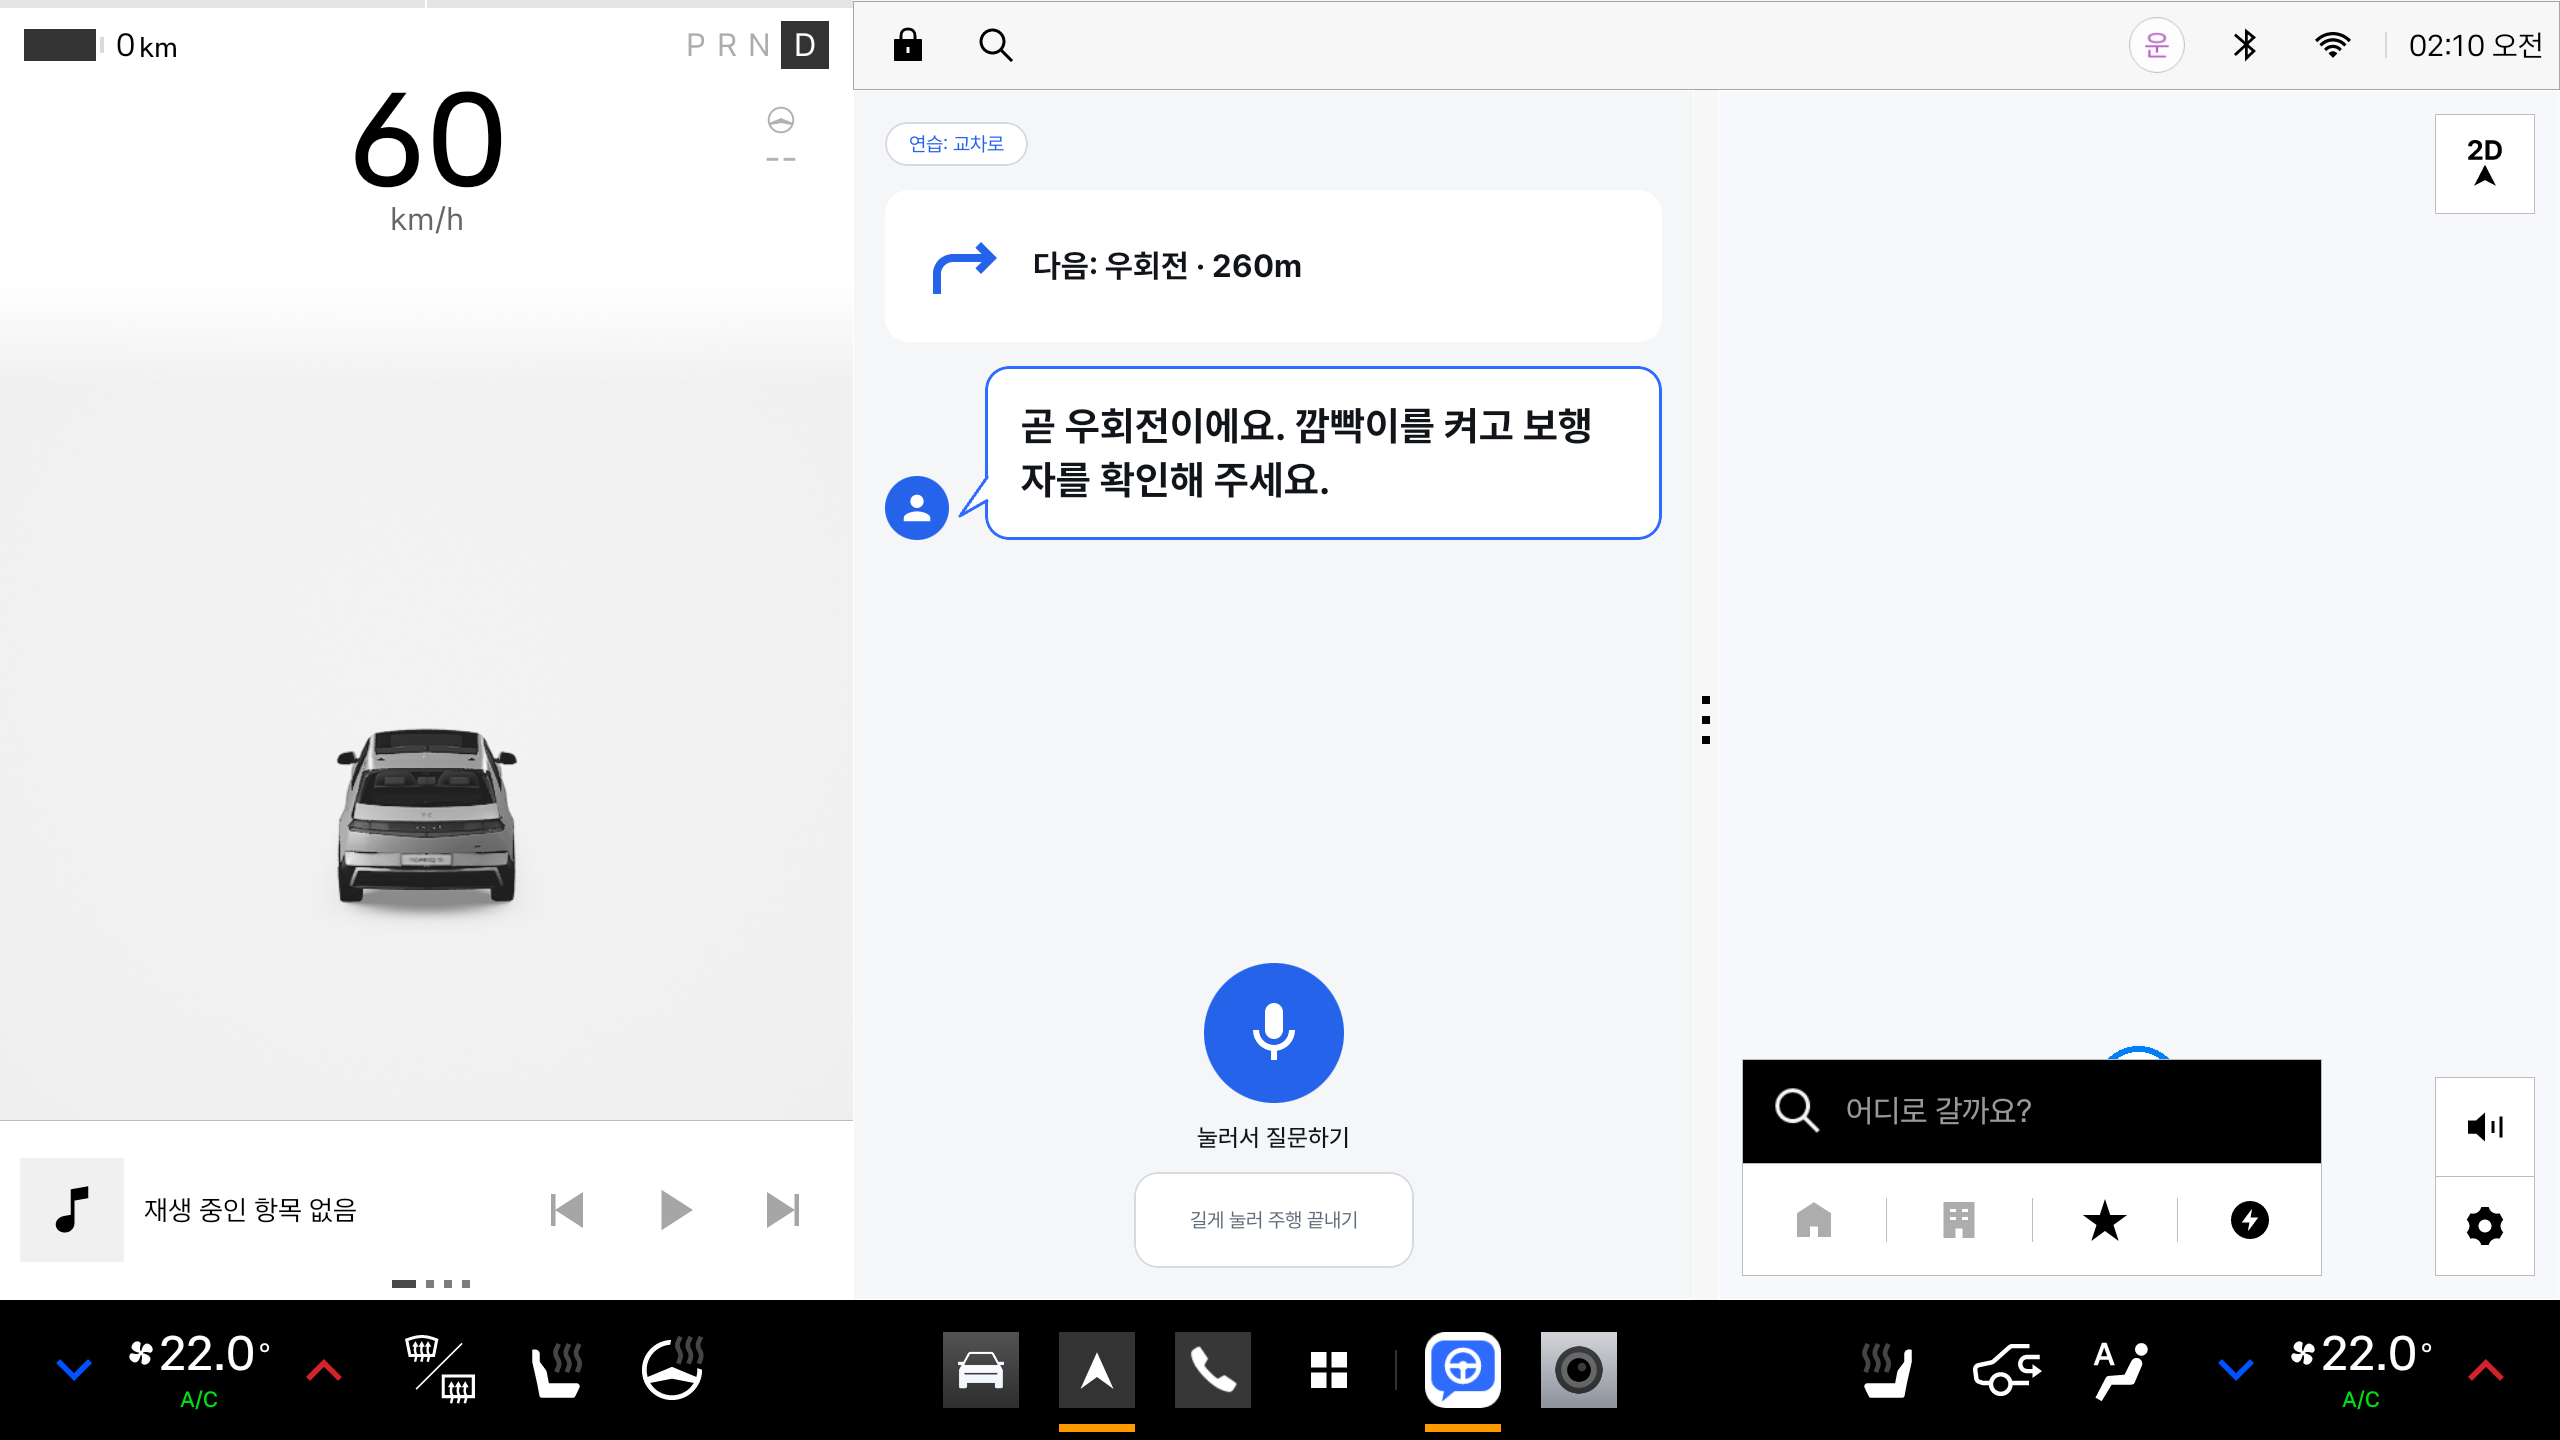
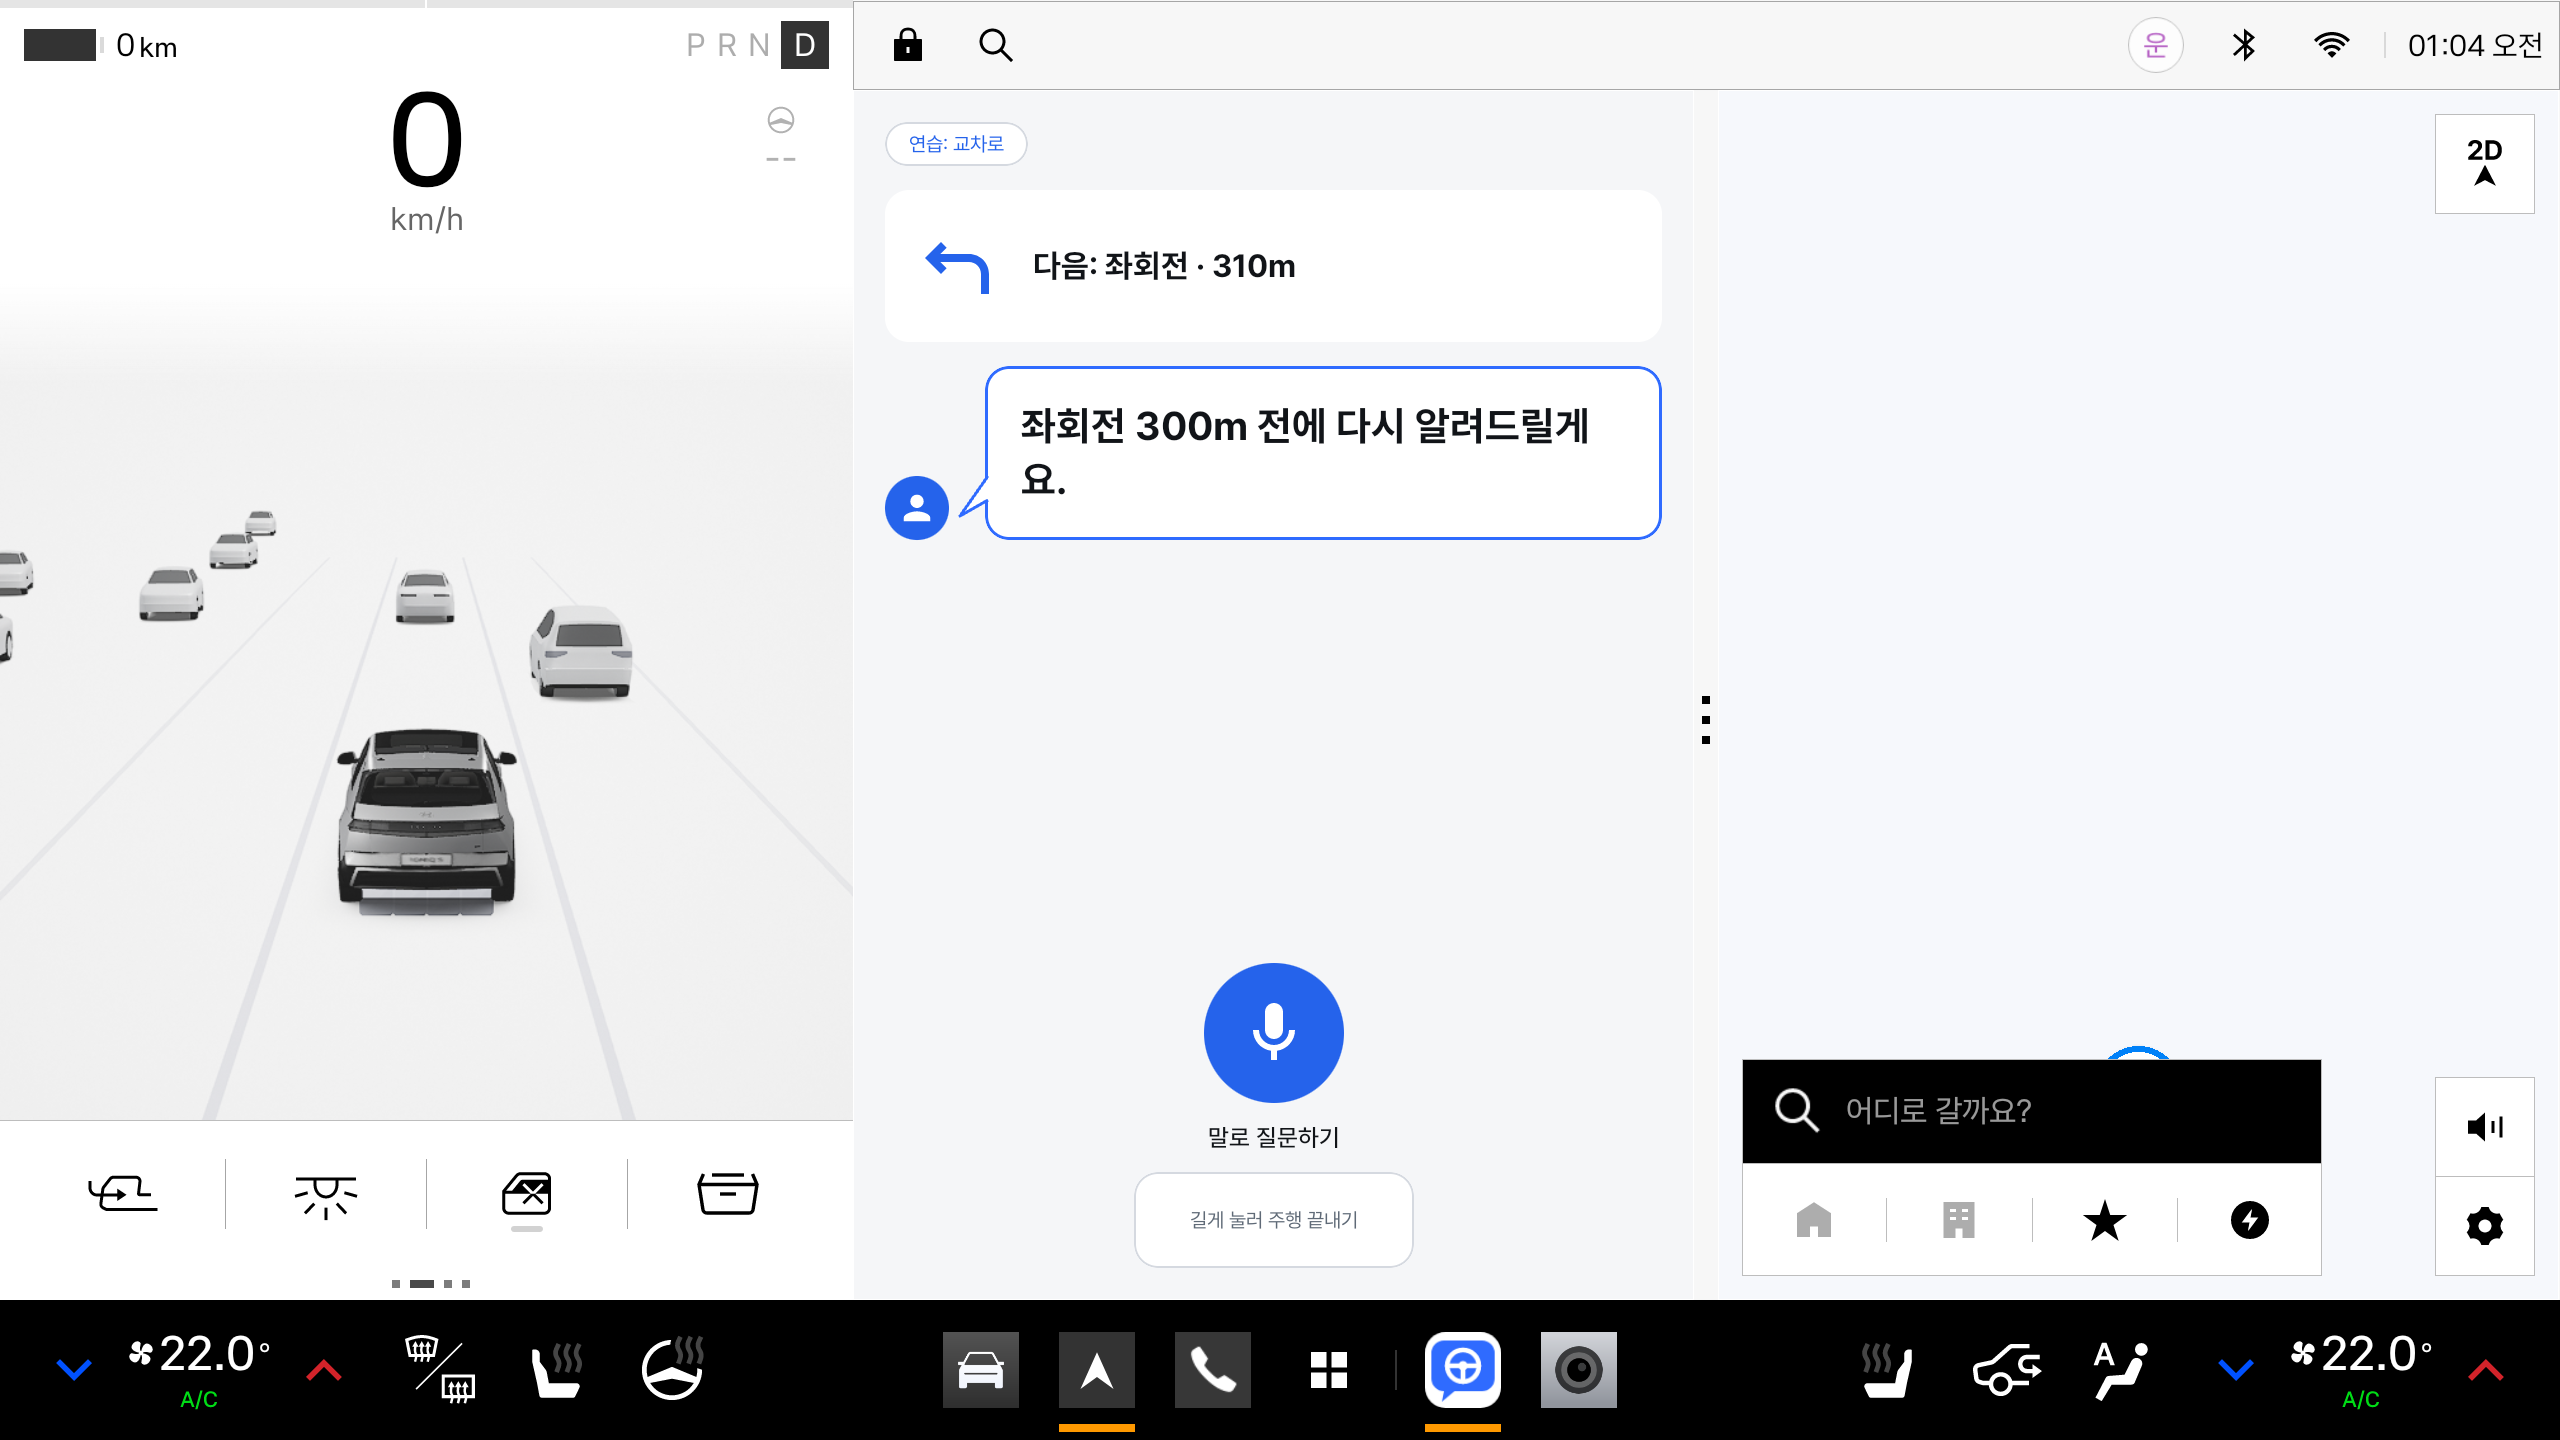
Screen text: no '데모' (destination names only, '시뮬레이션 주행'); idle bubble says when the next turn will be announced (screen only); mic label '말로 질문하기'

diff --git a/automotive/src/main/java/com/example/drivemate/drive/DriveSession.kt b/automotive/src/main/java/com/example/drivemate/drive/DriveSession.kt
@@ -139,8 +139,8 @@ class DriveSession @Inject constructor(
             _state.value = DriveState(
                 active = true, mode = mode, topics = topics,
                 hasRoute = naviNow.hasRoute, next = naviNow.next.takeIf { naviNow.hasRoute },
-                bubble = defaultBubble(naviNow.hasRoute),
-            )
+            ).let { it.copy(bubble = defaultBubble(it)) }
+            showingDefault = true
             starting = false
             Log.i(TAG, "TRIP START id=$tripId mode=$mode topics=$topics route=${naviNow.hasRoute}")
             startTicker()
@@ -199,12 +199,14 @@ class DriveSession @Inject constructor(
         when (_state.value.listen) {
             ListenState.LISTENING -> {
                 speechIn.cancel()
-                _state.update { it.copy(listen = ListenState.IDLE, bubble = if (it.active) defaultBubble(it.hasRoute) else "") }
+                showingDefault = _state.value.active
+                _state.update { it.copy(listen = ListenState.IDLE, bubble = if (it.active) defaultBubble(it) else "") }
             }
             ListenState.ANSWERING -> Unit   // 답하는 중에는 무시
             ListenState.IDLE -> {
                 speechOut.stop()   // 코칭을 말하던 중이면 멈추고 듣는다
                 // 화면이 바로 반응하도록 먼저 상태를 바꾼다 (Pleos 가이드: 입력 후 0.25초 안에 응답 표시)
+                showingDefault = false
                 _state.update { it.copy(listen = ListenState.LISTENING, bubble = "듣고 있어요. 말씀해 주세요.") }
                 bubbleManeuverId = null
                 speechIn.listen { text ->
@@ -263,6 +265,7 @@ class DriveSession @Inject constructor(
         }
         Log.i(TAG, "QUESTION: $text -> $reply")
         bubbleManeuverId = null
+        showingDefault = false
         _state.update { it.copy(listen = ListenState.ANSWERING, bubble = bubble) }
         val spoke = speechOut.speak(reply) {
             _state.update { it.copy(listen = ListenState.IDLE) }
@@ -315,7 +318,11 @@ class DriveSession @Inject constructor(
         // 말풍선의 회전을 지나갔으면 기본 문구로 되돌린다
         if (bubbleManeuverId != null && next?.id != bubbleManeuverId && _state.value.listen == ListenState.IDLE) {
             bubbleManeuverId = null
-            _state.update { it.copy(bubble = defaultBubble(it.hasRoute)) }
+            showingDefault = true
+        }
+        // 코칭 대기 문구는 다음 회전·거리에 맞춰 바꾼다
+        if (showingDefault && _state.value.listen == ListenState.IDLE) {
+            _state.update { it.copy(bubble = defaultBubble(it)) }
         }
     }
 
@@ -333,6 +340,7 @@ class DriveSession @Inject constructor(
         if (speechOut.speak(coaching.speech)) {
             pending = null
             bubbleManeuverId = pendingManeuverId
+            showingDefault = false
             _state.update { it.copy(bubble = coaching.bubble) }
         }
     }
@@ -408,8 +416,19 @@ class DriveSession @Inject constructor(
         scope.launch { repo.addEvent(event) }
     }
 
-    private fun defaultBubble(hasRoute: Boolean) =
-        if (hasRoute) "옆에서 같이 가고 있어요." else "경로가 없어서 기록과 질문만 도와드려요."
+    /**
+     * 코칭 대기 말풍선 (화면에만 띄우고 소리 내서 읽지 않는다).
+     * 다음에 안내할 회전이 있으면 언제 다시 알려줄지, 없거나 목적지가 없으면 편하게 가라고 말한다.
+     */
+    private fun defaultBubble(s: DriveState): String {
+        val next = s.next
+        return if (next != null && rules.willAnnounce(next, s.mode, s.topics))
+            "${next.type.label} ${CoachingRules.announceDistance(next.type)}m 전에 다시 알려드릴게요."
+        else "지금은 편하게 직진하세요."
+    }
+
+    // 말풍선이 지금 코칭 대기 문구인지 (그렇다면 내비 값이 바뀔 때마다 새로 계산한다)
+    private var showingDefault = false
 
     private companion object {
         const val TAG = "DriveMate"

diff --git a/automotive/src/main/java/com/example/drivemate/ui/prep/PrepScreen.kt b/automotive/src/main/java/com/example/drivemate/ui/prep/PrepScreen.kt
@@ -115,10 +115,10 @@ fun PrepScreen(onBack: () -> Unit, viewModel: PrepViewModel = hiltViewModel()) {
                 verticalArrangement = Arrangement.spacedBy(16.dp),
             ) {
                 if (!navi.hasRoute) DmButton("내비 열기", viewModel::openNavi, primary = false)
-                // 시연·테스트용 가짜 경로 (디버그 빌드에서만 보인다)
+                // 시뮬레이션 주행: 실제 내비 로그에서 옮긴 경로를 차량 속도로 따라간다 (시연·테스트용, 디버그 빌드에서만 보인다)
                 if (BuildConfig.DEBUG) {
                     DmButton(
-                        if (demo) "데모 경로 끄기" else "데모 경로 쓰기",
+                        if (demo) "시뮬레이션 끄기" else "시뮬레이션 주행",
                         { viewModel.setDemo(!demo) }, primary = false,
                     )
                 }

diff --git a/automotive/src/main/java/com/example/drivemate/coaching/CoachingRules.kt b/automotive/src/main/java/com/example/drivemate/coaching/CoachingRules.kt
@@ -42,6 +42,11 @@ class CoachingRules {
         return coaching
     }
 
+    /** 이 회전 지점을 아직 멀어서 나중에 안내할 예정인지 (코칭 대기 말풍선 문구에 쓴다) */
+    fun willAnnounce(next: Maneuver, mode: DriveMode, topics: Set<Topic>): Boolean =
+        next.id !in announced && next.distanceM > announceDistance(next.type) &&
+            isWanted(next.type, mode, topics) && messageFor(next.type, mode) != null
+
     /** 새 주행을 시작할 때 기억을 지운다 */
     fun reset() {
         announced.clear()

diff --git a/automotive/src/main/java/com/example/drivemate/ui/drive/DriveScreen.kt b/automotive/src/main/java/com/example/drivemate/ui/drive/DriveScreen.kt
@@ -181,7 +181,7 @@ private fun ControlPanel(state: DriveState, onMic: () -> Unit, onEnd: () -> Unit
             text = when (state.listen) {
                 ListenState.LISTENING -> "듣는 중 · 다시 누르면 취소"
                 ListenState.ANSWERING -> "답하는 중"
-                ListenState.IDLE -> "눌러서 질문하기"
+                ListenState.IDLE -> "말로 질문하기"
             },
             style = DmType.body,
             color = if (listening) colors.accentText else colors.text,

diff --git a/automotive/src/main/java/com/example/drivemate/vehicle/NaviSource.kt b/automotive/src/main/java/com/example/drivemate/vehicle/NaviSource.kt
@@ -317,8 +317,8 @@ class ScenarioNaviSource @Inject constructor(
 
 /** 데모 경로 목록 */
 enum class DemoRoute(val destination: String) {
-    EMART("이마트 성남점 (데모 경로)"),
-    AIRPORT("김포공항 고속도로 진입 (데모 경로)");
+    EMART("이마트 성남점"),
+    AIRPORT("김포공항");
 
     val points: List<Pair<Int, ManeuverType>>
         get() = if (this == AIRPORT) ScenarioNaviSource.AIRPORT_ROUTE else ScenarioNaviSource.ROUTE
